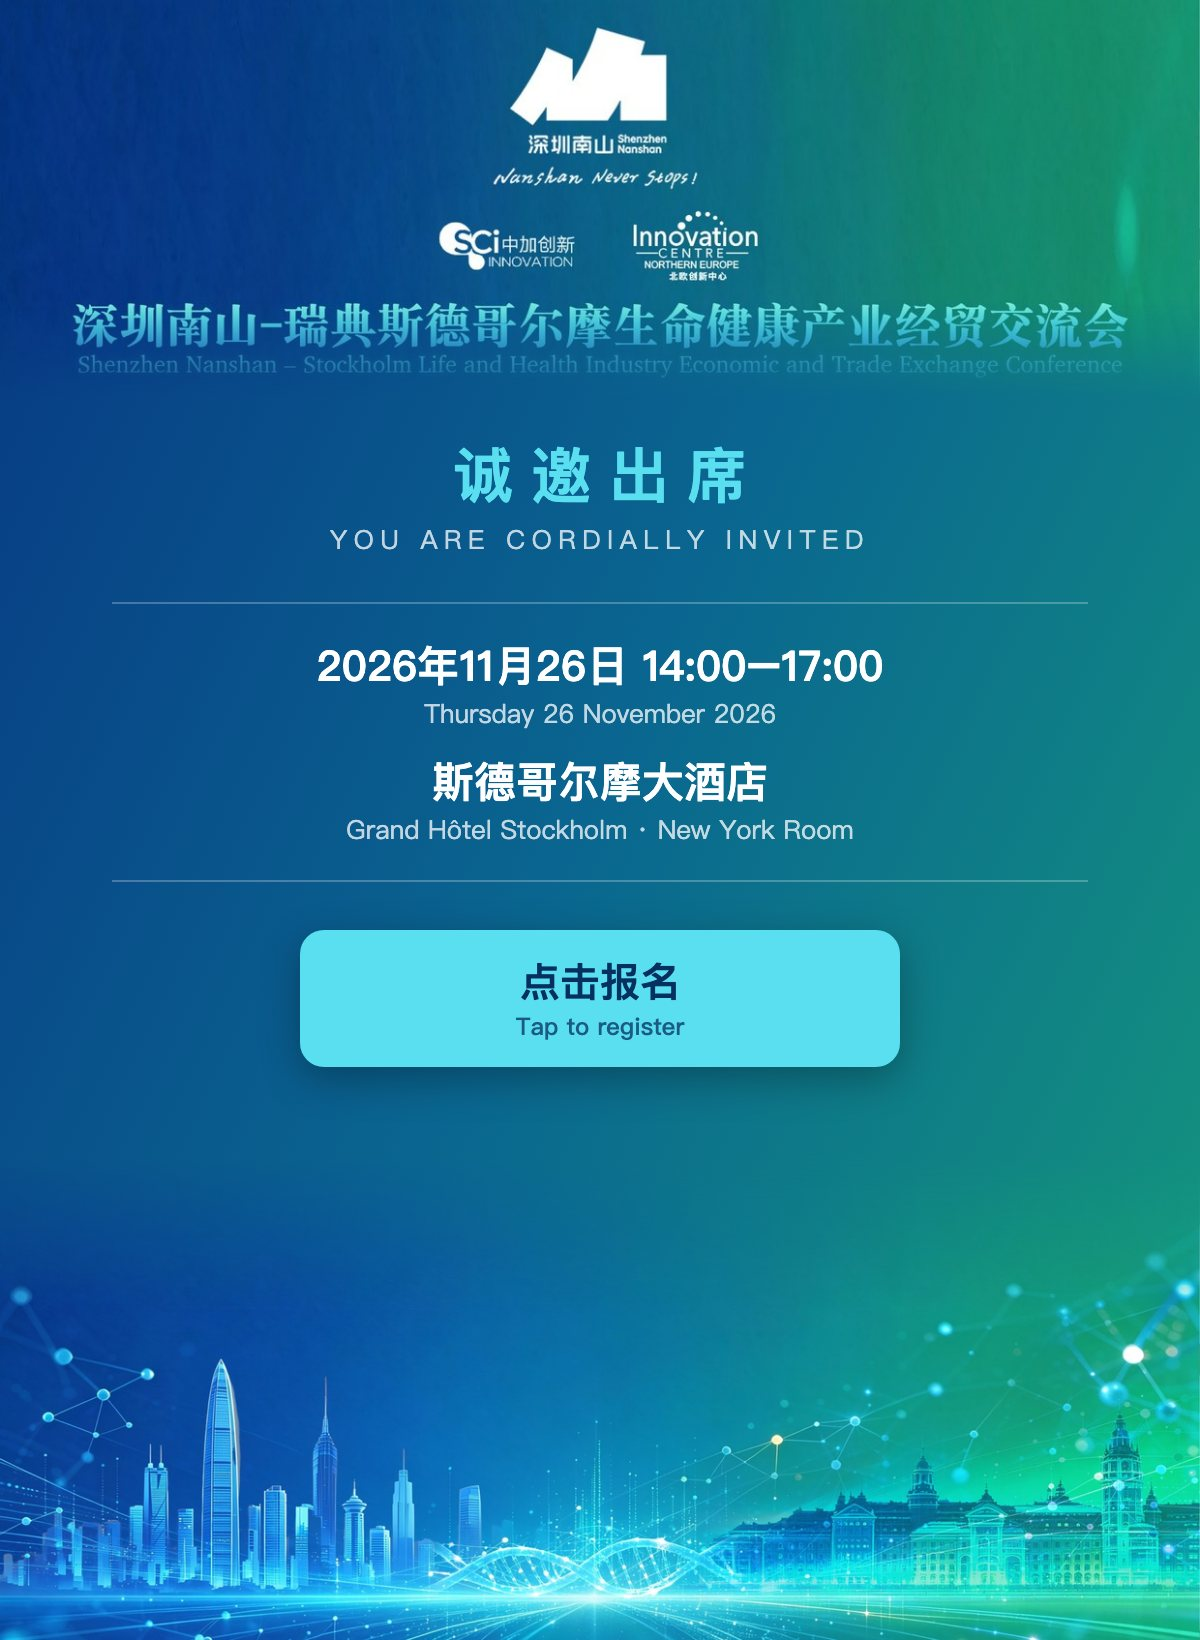
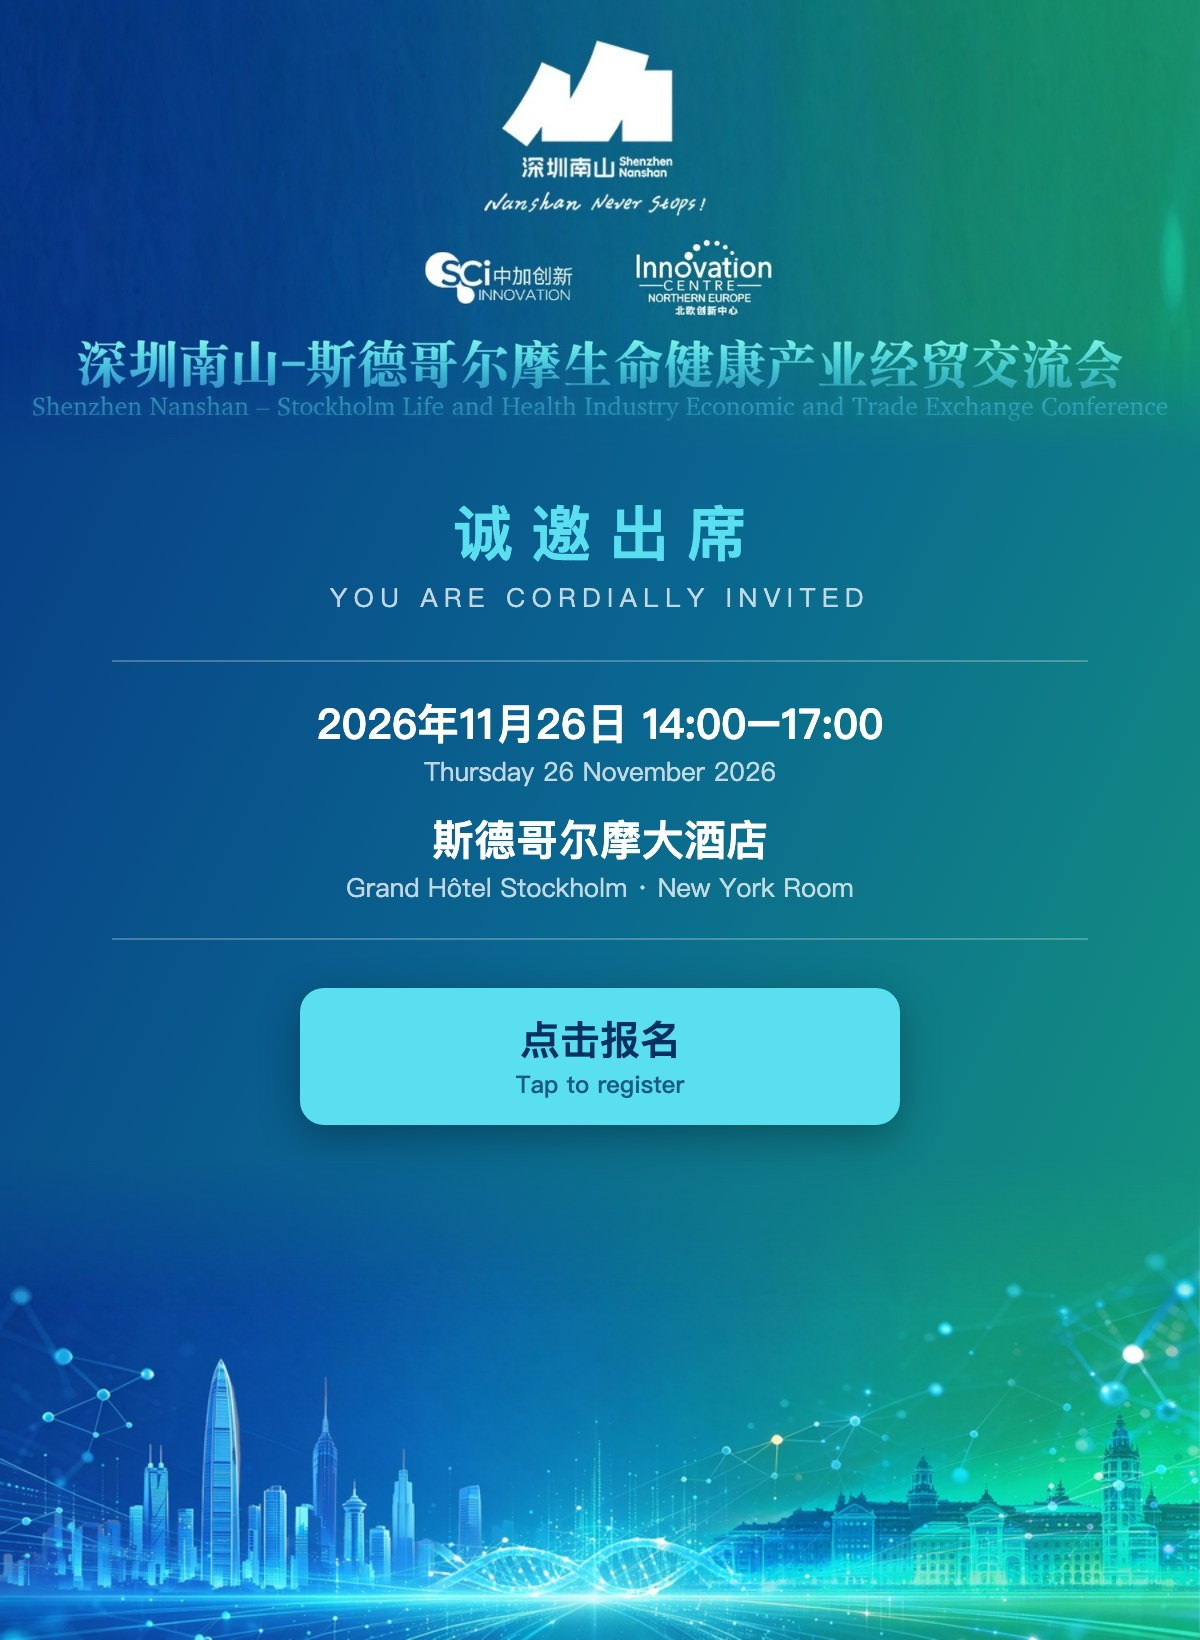
11-05 定稿：新议程（大使馆致辞）、会名去掉瑞典、头图与天际线全屏、英文加大

Changed region(s): [[0.0617, 0.0, 0.9558, 0.7152], [0.925, 0.1244, 0.9867, 0.1866]]

diff --git a/index.html b/index.html
@@ -3,20 +3,24 @@
 <head>
 <meta charset="utf-8">
 <meta name="viewport" content="width=device-width, initial-scale=1">
-<title>深圳南山-瑞典斯德哥尔摩生命健康产业经贸交流会 | Shenzhen Nanshan – Stockholm Exchange Conference</title>
+<title>深圳南山-斯德哥尔摩生命健康产业经贸交流会 | Shenzhen Nanshan – Stockholm Exchange Conference</title>
 <meta name="description" content="2026年11月26日 14:00–17:00 · 斯德哥尔摩大酒店 Grand Hôtel Stockholm">
-<meta property="og:title" content="深圳南山-瑞典斯德哥尔摩生命健康产业经贸交流会 Shenzhen Nanshan – Stockholm Life and Health Industry Economic and Trade Exchange Conference">
+<meta property="og:title" content="深圳南山-斯德哥尔摩生命健康产业经贸交流会 Shenzhen Nanshan – Stockholm Life and Health Industry Economic and Trade Exchange Conference">
 <meta property="og:description" content="26 November 2026, 14:00–17:00 · Grand Hôtel Stockholm">
 <meta property="og:image" content="banner.jpg">
+<link rel="preconnect" href="https://fonts.googleapis.com"><link rel="preconnect" href="https://fonts.gstatic.com" crossorigin><link href="https://fonts.googleapis.com/css2?family=Noto+Serif+SC:wght@900&text=%E6%B7%B1%E5%9C%B3%E5%8D%97%E5%B1%B1-%E6%96%AF%E5%BE%B7%E5%93%A5%E5%B0%94%E6%91%A9%E7%94%9F%E5%91%BD%E5%81%A5%E5%BA%B7%E4%BA%A7%E4%B8%9A%E7%BB%8F%E8%B4%B8%E4%BA%A4%E6%B5%81%E4%BC%9A&display=swap" rel="stylesheet">
 <style>
 :root { --cyan:#5adff0; --ink:#fff; --soft:rgba(255,255,255,.78); --card:rgba(255,255,255,.08); --line:rgba(255,255,255,.16) }
 * { box-sizing:border-box; margin:0; padding:0 }
-html { background:linear-gradient(115deg,#073583 0%,#0a6790 50%,#159a7b 100%) fixed #0a6790; min-height:100% }
+html { overflow-x:clip; background:linear-gradient(115deg,#073583 0%,#0a6790 50%,#159a7b 100%) fixed #0a6790; min-height:100% }
 body { font:15px/1.7 -apple-system,BlinkMacSystemFont,"PingFang SC","Hiragino Sans GB","Microsoft YaHei","Helvetica Neue",Arial,sans-serif; color:var(--ink);
   background:linear-gradient(115deg,#073583 0%,#0a6790 50%,#159a7b 100%) fixed; min-height:100vh; -webkit-text-size-adjust:100% }
 .wrap { max-width:480px; margin:0 auto; position:relative }
 .banner { width:100%; display:block; -webkit-mask-image:linear-gradient(#000 88%,transparent); mask-image:linear-gradient(#000 88%,transparent) }
-.entitle { text-align:center; padding:2px 16px 0; font:15px/1.4 Charter,Georgia,"Times New Roman",serif; color:#9debf7; letter-spacing:.01em; text-wrap:balance }
+.zhtitle { text-align:center; margin:2px 12px 0; font:900 calc((100vw - 28px) / 21.5)/1.25 "Noto Serif SC","Songti SC","STSong",serif; letter-spacing:.01em;
+  background:linear-gradient(#7aeeea,#62e6ec 30%,#55d8ec 70%,#5ac6ed); -webkit-background-clip:text; background-clip:text; color:transparent;
+  filter:drop-shadow(0 0 10px rgba(90,223,240,.35)) }
+.entitle { text-align:center; padding:6px 16px 0; font:16px/1.45 Charter,Georgia,"Times New Roman",serif; color:#9debf7; letter-spacing:.01em; text-wrap:balance }
 section { padding:0 20px; margin-top:22px }
 .when { background:var(--card); border:1px solid var(--line); border-radius:14px; padding:16px 18px }
 .row { display:flex; gap:12px; align-items:flex-start }
@@ -27,28 +31,28 @@ section { padding:0 20px; margin-top:22px }
 .ico big { font-size:15px }
 .ico svg { width:20px; height:20px }
 .row b { display:block; font-size:16px; line-height:1.45 }
-.row span { display:block; color:var(--soft); font-size:13px; line-height:1.55 }
+.row span { display:block; color:var(--soft); font-size:14px; line-height:1.55 }
 .row a { color:var(--cyan); font-size:13px; text-decoration:none }
 .cta { display:block; width:100%; border:0; cursor:pointer; text-align:center; margin-top:16px; padding:14px; border-radius:12px; background:var(--cyan);
   color:#06305f; font:inherit; font-weight:700; font-size:17px; line-height:1.3; text-decoration:none; letter-spacing:.02em; box-shadow:0 6px 20px rgba(0,0,0,.25) }
-.cta small { display:block; font-weight:500; font-size:12px; opacity:.75 }
+.cta small { display:block; font-weight:500; font-size:13px; opacity:.75 }
 h2 { font-size:17px; display:flex; align-items:baseline; gap:8px; margin-bottom:10px }
-h2 em { font-style:normal; font-size:12px; color:var(--cyan); letter-spacing:.08em; text-transform:uppercase }
+h2 em { font-style:normal; font-size:13px; color:var(--cyan); letter-spacing:.08em; text-transform:uppercase }
 .tabs { display:flex; gap:6px; margin-bottom:12px }
 .tabs button { flex:1; padding:7px; border-radius:8px; border:1px solid var(--line); background:transparent; color:var(--soft); font:inherit; font-size:13px; cursor:pointer }
 .tabs button[aria-selected=true] { background:rgba(255,255,255,.14); color:#fff; border-color:rgba(255,255,255,.3) }
 .txt p { margin-bottom:10px; text-align:justify; color:rgba(255,255,255,.92) }
-.txt[lang=zh] p { text-indent:2em }
-.txt[lang=en] p { font-size:14px; text-align:left }
+.txt[lang=zh] p { text-indent:2em; line-height:2; margin-bottom:14px }
+.txt[lang=en] p { font-size:15px; text-align:left }
 .txt[hidden] { display:none }
 .ag { border-radius:14px; overflow:hidden; border:1px solid var(--line) }
 .ag div { display:flex; gap:12px; padding:10px 14px; background:var(--card) }
 .ag div:nth-child(odd) { background:rgba(255,255,255,.04) }
 .ag time { flex:none; width:88px; color:var(--cyan); font-variant-numeric:tabular-nums; font-size:13px; padding-top:1px }
 .ag p { font-size:14px; line-height:1.45 }
-.ag p span { display:block; font-size:12px; color:var(--soft) }
+.ag p span { display:block; font-size:13.5px; color:var(--soft); margin-top:1px }
 .org p { font-size:14px; margin-bottom:8px; line-height:1.5 }
-.org p span { display:block; font-size:12px; color:var(--soft) }
+.org p span { display:block; font-size:13.5px; color:var(--soft) }
 .sky { width:100%; display:block; margin-top:6px }
 .sticky { position:sticky; bottom:0; transition:opacity .25s, transform .25s; padding:10px 20px calc(14px + env(safe-area-inset-bottom)); background:linear-gradient(rgba(5,40,90,0),rgba(5,40,90,.9) 45%) }
 .sticky .cta { margin:0 }
@@ -64,11 +68,11 @@ h2 em { font-style:normal; font-size:12px; color:var(--cyan); letter-spacing:.08
 .err { background:rgba(255,120,100,.18); border:1px solid rgba(255,140,120,.5); border-radius:10px; padding:8px 12px; font-size:13px; margin:4px 0 0 }
 .note { text-align:center; color:var(--soft); font-size:12px; margin-top:8px }
 .cta[disabled] { opacity:.6; cursor:wait }
-.q { font-size:15px; margin:2px 0 10px } .q span { display:block; font-size:13px; color:var(--soft) }
+.q { font-size:15px; margin:2px 0 10px } .q span { display:block; font-size:14px; color:var(--soft) }
 .choice { display:flex; gap:10px; margin-bottom:14px }
 .choice button { flex:1; padding:12px 8px; border-radius:12px; border:1.5px solid rgba(255,255,255,.3); background:rgba(255,255,255,.06);
   color:#fff; font:inherit; font-size:16px; font-weight:700; cursor:pointer; line-height:1.3 }
-.choice button small { display:block; font-size:12px; font-weight:500; opacity:.75 }
+.choice button small { display:block; font-size:13px; font-weight:500; opacity:.75 }
 .choice button[data-a=yes] { background:var(--cyan); border-color:var(--cyan); color:#06305f; box-shadow:0 6px 20px rgba(0,0,0,.25) }
 .choice button[aria-checked=true] { outline:3px solid #fff; outline-offset:2px }
 .choice button[data-a=no][aria-checked=true] { background:rgba(255,255,255,.2) }
@@ -80,18 +84,24 @@ h2 em { font-style:normal; font-size:12px; color:var(--cyan); letter-spacing:.08
 @media (min-width: 820px) {
   body { font-size:16px }
   .wrap { max-width:1080px; padding:0 32px }
-  .banner { max-width:1016px; margin:0 auto;
-    -webkit-mask-image:linear-gradient(to right,transparent,#000 9%,#000 91%,transparent),linear-gradient(#000 85%,transparent); -webkit-mask-composite:source-in;
-    mask-image:linear-gradient(to right,transparent,#000 9%,#000 91%,transparent),linear-gradient(#000 85%,transparent); mask-composite:intersect }
-  .entitle { font-size:18px }
+  .banner { width:100vw; max-width:none; margin:0 0 0 calc(50% - 50vw); -webkit-mask-image:linear-gradient(#000 80%,transparent); mask-image:linear-gradient(#000 80%,transparent) }
+  .zhtitle { font-size:clamp(34px,3vw,56px); margin-top:6px }
+  .entitle { font-size:clamp(19px,1.45vw,26px); padding-top:8px }
+  .row b { font-size:18px } .row span, .row a { font-size:15.5px }
+  .txt[lang=en] p { font-size:16.5px }
+  .ag time { font-size:15px; width:104px } .ag p { font-size:16px } .ag p span { font-size:15px }
+  .org p { font-size:15.5px } .org p span { font-size:15px }
+  h2 { font-size:19px } h2 em { font-size:14px }
+  .q { font-size:17px } .q span { font-size:15.5px }
+  .reg label { font-size:14.5px }
   section { padding:0 }
   .when { display:flex; gap:28px; justify-content:center; padding:18px 28px }
   .row + .row { margin-top:0; padding-top:0; border-top:0; padding-left:28px; border-left:1px solid var(--line) }
-  .grid { display:grid; grid-template-columns:1.15fr 1fr; gap:36px; align-items:start }
+  .grid { display:grid; grid-template-columns:1fr 1fr; gap:40px; align-items:start }
   .orgs { display:grid; grid-template-columns:repeat(3,1fr); gap:18px }
   .rsvp { max-width:560px; margin:36px auto 0 }
   .sticky { display:none }
-  .sky { max-width:1080px; margin:20px auto 0; -webkit-mask-image:linear-gradient(to right,transparent,#000 12%,#000 88%,transparent); mask-image:linear-gradient(to right,transparent,#000 12%,#000 88%,transparent) }
+  .sky { width:100vw; max-width:none; margin:40px 0 0 calc(50% - 50vw); -webkit-mask-image:linear-gradient(transparent,#000 40%,#000 82%,transparent); mask-image:linear-gradient(transparent,#000 40%,#000 82%,transparent) }
 }
 .reg textarea { display:block; width:100%; margin-top:4px; padding:10px 12px; border-radius:10px; border:1px solid rgba(255,255,255,.28);
   background:rgba(255,255,255,.1); color:#fff; font:inherit; font-size:16px; outline:none; resize:vertical }
@@ -132,7 +142,8 @@ h2 em { font-style:normal; font-size:12px; color:var(--cyan); letter-spacing:.08
 </style>
 </head>
 <body><div class="wrap">
-<picture><source media="(min-width: 820px)" srcset="banner_wide.jpg"><img class="banner" src="banner.jpg" alt="深圳南山-瑞典斯德哥尔摩生命健康产业经贸交流会 Shenzhen Nanshan – Stockholm Life and Health Industry Economic and Trade Exchange Conference"></picture>
+<picture><source media="(min-width: 820px)" srcset="banner_full.jpg"><img class="banner" src="banner_logo.jpg" alt=""></picture>
+<h1 class="zhtitle">深圳南山-斯德哥尔摩生命健康产业经贸交流会</h1>
 <p class="entitle">Shenzhen Nanshan – Stockholm Life and Health Industry Economic and Trade Exchange Conference</p>
 
 <section>
@@ -154,7 +165,7 @@ h2 em { font-style:normal; font-size:12px; color:var(--cyan); letter-spacing:.08
  </div>
  <div class="txt" lang="zh">
   <p>为深化中国与北欧经贸务实往来，充分发挥海外华人华侨桥梁作用，促进深圳南山区与瑞典斯德哥尔摩双向产业对接。斯德哥尔摩作为北欧生物医药、绿色产业核心枢纽，南山区作为粤港澳大湾区战略性新兴产业高地，两地在生命健康、生物医药、绿色低碳、循环经济、数字工业等领域具备广阔合作空间。</p>
-  <p>由深圳市南山海外联谊会主办，深圳市加中创新中心有限公司承办，北欧深圳总商会、北欧创新中心协办，举办深圳南山-瑞典斯德哥尔摩生命健康产业经贸交流会，谨诚挚邀请您出席本次盛会。</p>
+  <p>由深圳市南山海外联谊会主办，深圳市加中创新中心有限公司承办，北欧深圳总商会、北欧创新中心协办，举办深圳南山-斯德哥尔摩生命健康产业经贸交流会，谨诚挚邀请您出席本次盛会。</p>
   <p>本次交流会汇集中瑞政府代表、高校专家、行业机构及生命健康领域重点企业，开展两地营商环境与产业政策推介，分享产业发展实践，搭建企业对接协作平台，深度挖掘双向投资与商业合作机遇，助力两地企业拓展北欧与中国市场。</p>
  </div>
  <div class="txt" lang="en" hidden>
@@ -169,12 +180,13 @@ h2 em { font-style:normal; font-size:12px; color:var(--cyan); letter-spacing:.08
  <div class="ag">
   <div><time>14:00–14:10</time><p>播放南山区宣传片<span>Nanshan District Showcase Video</span></p></div>
   <div><time>14:10–14:20</time><p>主持人介绍到场嘉宾<span>Welcome &amp; Introduction of Guests by the Host</span></p></div>
-  <div><time>14:20–14:40</time><p>北欧深圳总商会致辞及瑞典营商环境介绍<span>Remarks by the Nordic Shenzhen Chamber of Commerce &amp; Doing Business in Sweden</span></p></div>
-  <div><time>14:40–15:00</time><p>南山区政府领导致辞<span>Remarks by the Head of the Shenzhen Nanshan Delegation</span></p></div>
-  <div><time>15:00–15:20</time><p>南山区相关政策宣讲<span>Nanshan District Policy Briefing</span></p></div>
-  <div><time>15:20–15:50</time><p>瑞典企业分享<span>Swedish Company Spotlights</span></p></div>
-  <div><time>15:50–16:20</time><p>中国企业分享<span>Chinese Company Spotlights</span></p></div>
-  <div><time>16:20–16:50</time><p>双方自由交流<span>Open Networking</span></p></div>
+  <div><time>14:20–14:30</time><p>中国驻瑞典大使馆领导致辞<span>Remarks by a Representative of the Chinese Embassy in Sweden</span></p></div>
+  <div><time>14:30–14:50</time><p>北欧深圳总商会会长致辞及瑞典营商环境介绍<span>Remarks by the President of the Nordic Shenzhen Chamber of Commerce &amp; Doing Business in Sweden</span></p></div>
+  <div><time>14:50–15:10</time><p>南山区政府领导致辞<span>Remarks by the Head of the Shenzhen Nanshan Delegation</span></p></div>
+  <div><time>15:10–15:30</time><p>南山区相关政策宣讲<span>Nanshan District Policy Briefing</span></p></div>
+  <div><time>15:30–16:00</time><p>瑞典企业分享<span>Swedish Company Spotlights</span></p></div>
+  <div><time>16:00–16:30</time><p>中国企业分享<span>Chinese Company Spotlights</span></p></div>
+  <div><time>16:30–16:50</time><p>双方自由交流<span>Open Networking</span></p></div>
   <div><time>16:50–17:00</time><p>活动结束，合影<span>Closing &amp; Group Photo</span></p></div>
  </div>
 </section>
@@ -233,7 +245,7 @@ h2 em { font-style:normal; font-size:12px; color:var(--cyan); letter-spacing:.08
  </div>
 </section>
 
-<img class="sky" src="skyline.png" alt="">
+<picture><source media="(min-width: 820px)" srcset="skyline_wide.jpg"><img class="sky" src="skyline.png" alt=""></picture>
 <div class="sticky off"><a class="cta" href="#rsvp" id="toRsvp">立即报名 Register</a></div>
 </div>
 <script>
